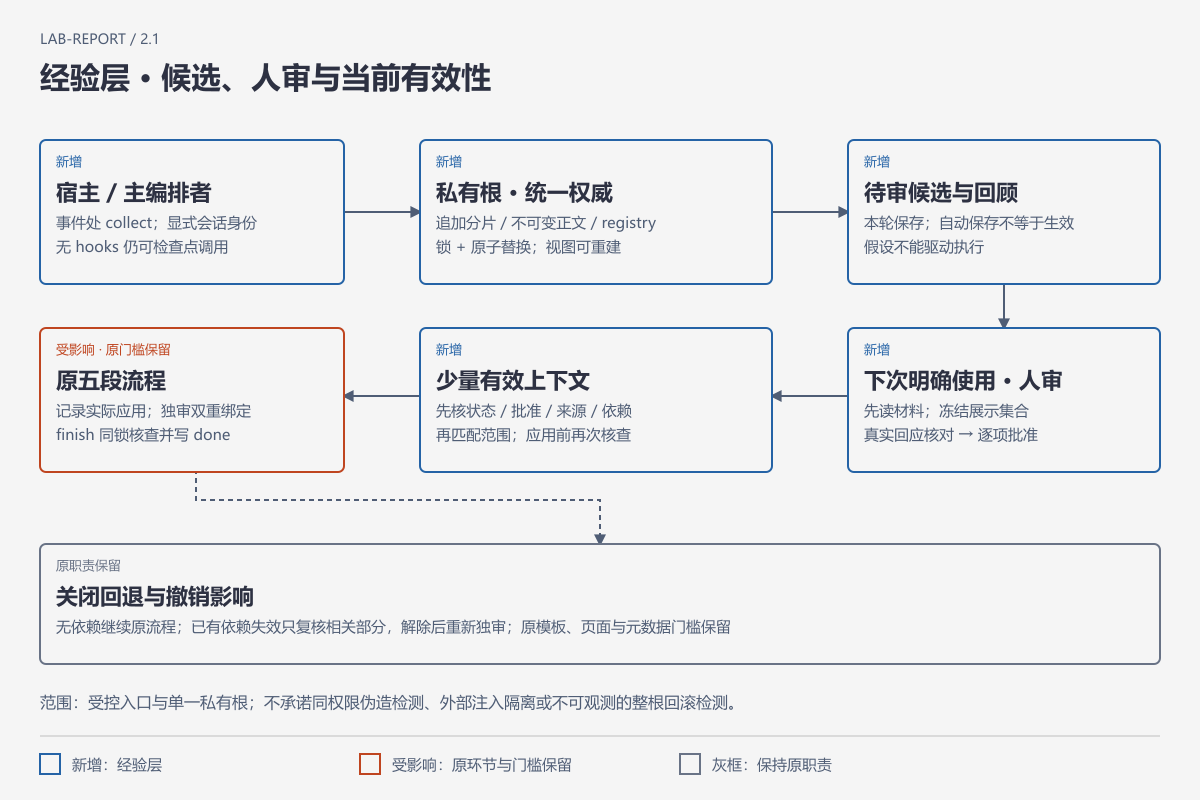
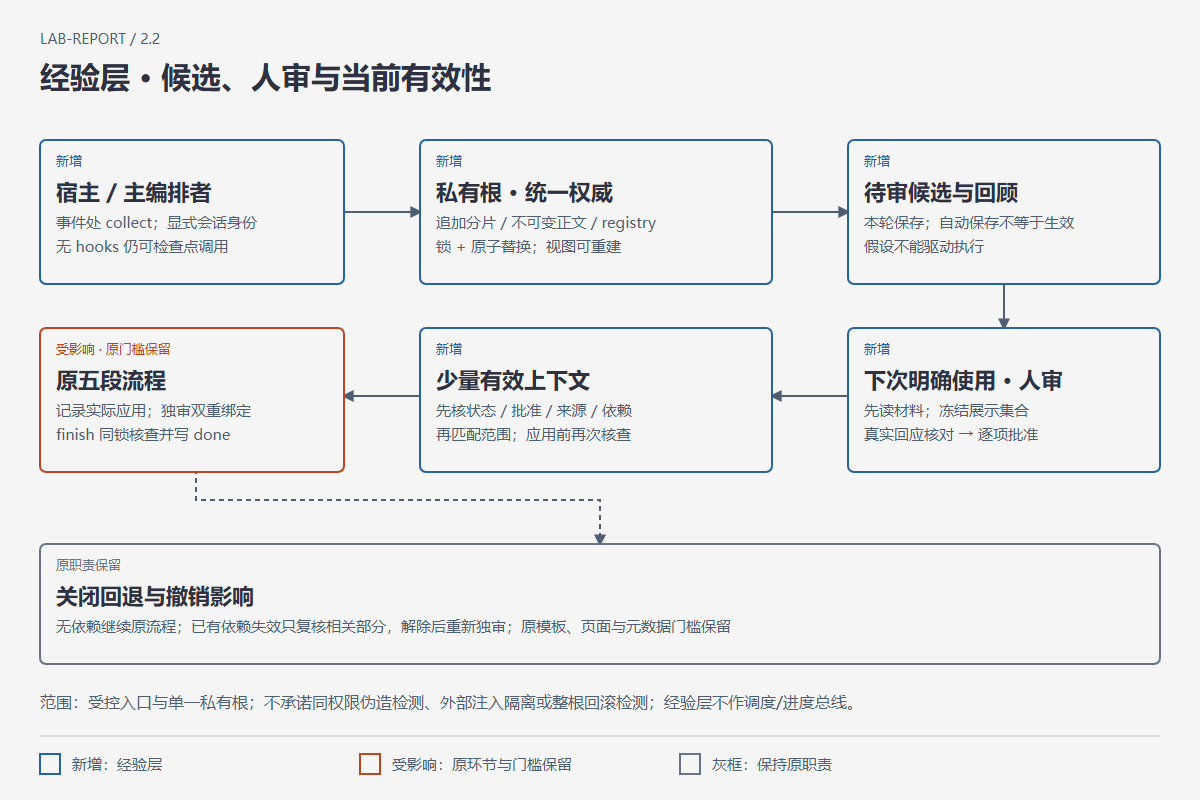
docs: update README diagrams for 2.2.0 materials map and orchestration

diff --git a/docs/images/workflow.html b/docs/images/workflow.html
@@ -1,1 +1,1 @@
-<!doctype html><html lang="zh-CN"><meta charset="utf-8"><meta name="viewport" content="width=device-width,initial-scale=1"><title>实验文档 · 五段流程与受监督经验</title><style>body{margin:0;padding:24px;background:#f5f5f5}.diagram-container{overflow-x:auto}svg{display:block;width:100%;min-width:1200px}@media print{svg{min-width:0}}</style><body><div class="diagram-container"><svg xmlns="http://www.w3.org/2000/svg" viewBox="0 0 1200 744" role="img" aria-labelledby="workflow-title workflow-desc"><title id="workflow-title">实验文档 · 五段流程与受监督经验</title><desc id="workflow-desc">橙框为受经验影响的五段流程，蓝框为新增采集与下次人审，灰框为原流程回退；验收门槛保持。</desc><defs><style>text{font-family:"Microsoft YaHei","Noto Sans SC",sans-serif}</style><marker id="arrow" viewBox="0 0 10 10" refX="8" refY="5" markerWidth="6" markerHeight="6" orient="auto-start-reverse"><path d="M0 0 L10 5 L0 10z" fill="#4f5d75"/></marker></defs><rect width="1200" height="744" fill="#f5f5f5"/><text x="40" y="44" font-size="14" fill="#4f5d75" font-weight="400">LAB-REPORT / 2.1</text><text x="40" y="88" font-size="30" fill="#2d3142" font-weight="600">实验文档 · 五段流程与受监督经验</text><path d="M240 216 H268" fill="none" stroke="#4f5d75" stroke-width="2" marker-end="url(#arrow)"/><path d="M472 216 H500" fill="none" stroke="#4f5d75" stroke-width="2" marker-end="url(#arrow)"/><path d="M704 216 H732" fill="none" stroke="#4f5d75" stroke-width="2" marker-end="url(#arrow)"/><path d="M936 216 H964" fill="none" stroke="#4f5d75" stroke-width="2" marker-end="url(#arrow)"/><path d="M600 280 V332" fill="none" stroke="#4f5d75" stroke-width="2" marker-end="url(#arrow)"/><path d="M320 384 H24 Q16 384 16 376 V124 Q16 116 24 116 H132 Q140 116 140 124 V132" fill="none" stroke="#4f5d75" stroke-width="2" marker-end="url(#arrow)" stroke-dasharray="5 4"/><rect x="40" y="132" width="200" height="148" rx="6" fill="#f5f5f5" stroke="#bf4520" stroke-width="2"/><text x="56" y="158" font-size="13" fill="#bf4520" font-weight="400">受影响 · 原门槛保留</text><text x="56" y="192" font-size="22" fill="#2d3142" font-weight="600">01 意图与确认</text><text x="56" y="220" font-size="15" fill="#4f5d75" font-weight="400">先读当前材料</text><text x="56" y="244" font-size="15" fill="#4f5d75" font-weight="400">再合并经验审核</text><rect x="272" y="132" width="200" height="148" rx="6" fill="#f5f5f5" stroke="#bf4520" stroke-width="2"/><text x="288" y="158" font-size="13" fill="#bf4520" font-weight="400">受影响 · 原门槛保留</text><text x="288" y="192" font-size="22" fill="#2d3142" font-weight="600">02 实验与取证</text><text x="288" y="220" font-size="15" fill="#4f5d75" font-weight="400">本轮真实证据</text><text x="288" y="244" font-size="15" fill="#4f5d75" font-weight="400">经验只辅助方法</text><rect x="504" y="132" width="200" height="148" rx="6" fill="#f5f5f5" stroke="#bf4520" stroke-width="2"/><text x="520" y="158" font-size="13" fill="#bf4520" font-weight="400">受影响 · 原门槛保留</text><text x="520" y="192" font-size="22" fill="#2d3142" font-weight="600">03 写作与排版</text><text x="520" y="220" font-size="15" fill="#4f5d75" font-weight="400">副本允许区域</text><text x="520" y="244" font-size="15" fill="#4f5d75" font-weight="400">保护固定区与样式</text><rect x="736" y="132" width="200" height="148" rx="6" fill="#f5f5f5" stroke="#bf4520" stroke-width="2"/><text x="752" y="158" font-size="13" fill="#bf4520" font-weight="400">受影响 · 原门槛保留</text><text x="752" y="192" font-size="22" fill="#2d3142" font-weight="600">04 独立审查</text><text x="752" y="220" font-size="15" fill="#4f5d75" font-weight="400">原材料与采用记录</text><text x="752" y="244" font-size="15" fill="#4f5d75" font-weight="400">双重版本绑定</text><rect x="968" y="132" width="200" height="148" rx="6" fill="#f5f5f5" stroke="#bf4520" stroke-width="2"/><text x="984" y="158" font-size="13" fill="#bf4520" font-weight="400">受影响 · 原门槛保留</text><text x="984" y="192" font-size="22" fill="#2d3142" font-weight="600">05 复核与交付</text><text x="984" y="220" font-size="15" fill="#4f5d75" font-weight="400">最后页面与作者回读</text><text x="984" y="244" font-size="15" fill="#4f5d75" font-weight="400">finish 当前撤销核查</text><rect x="320" y="332" width="580" height="120" rx="6" fill="#f5f5f5" stroke="#2563a6" stroke-width="2"/><text x="336" y="358" font-size="13" fill="#2563a6" font-weight="400">新增</text><text x="336" y="392" font-size="22" fill="#2d3142" font-weight="600">本轮增量采集 → 检查点保存候选</text><text x="336" y="420" font-size="15" fill="#4f5d75" font-weight="400">结尾只落盘；下次明确使用再读材料、展示、人审</text><rect x="40" y="492" width="1120" height="120" rx="6" fill="#f5f5f5" stroke="#697386" stroke-width="2"/><text x="56" y="518" font-size="13" fill="#697386" font-weight="400">原职责保留</text><text x="56" y="552" font-size="22" fill="#2d3142" font-weight="600">关闭 / 空库 / 不可用时的原流程</text><text x="56" y="580" font-size="15" fill="#4f5d75" font-weight="400">从未采用：正常继续；已经采用：保留依赖，恢复核查或局部复核后显式解除</text><text x="40" y="654" font-size="16" fill="#4f5d75" font-weight="400">统一核查位置：应用前、status / 恢复、record_review、finish；撤销不直接改写任务状态。</text><path d="M40 680 H1160" stroke="#bfc0c0"/><rect x="40" y="698" width="20" height="20" fill="none" stroke="#2563a6" stroke-width="2"/><text x="72" y="714" font-size="15" fill="#4f5d75" font-weight="400">新增：经验层</text><rect x="360" y="698" width="20" height="20" fill="none" stroke="#bf4520" stroke-width="2"/><text x="392" y="714" font-size="15" fill="#4f5d75" font-weight="400">受影响：原环节与门槛保留</text><rect x="680" y="698" width="20" height="20" fill="none" stroke="#697386" stroke-width="2"/><text x="712" y="714" font-size="15" fill="#4f5d75" font-weight="400">灰框：保持原职责</text></svg></div></body></html>
+<!doctype html><html lang="zh-CN"><meta charset="utf-8"><meta name="viewport" content="width=device-width,initial-scale=1"><title>实验文档 · 材料地图、五段流程与受监督经验</title><style>body{margin:0;padding:24px;background:#f5f5f5}.diagram-container{overflow-x:auto}svg{display:block;width:100%;min-width:1200px}@media print{svg{min-width:0}}</style><body><div class="diagram-container"><svg xmlns="http://www.w3.org/2000/svg" viewBox="0 0 1200 1000" role="img" aria-labelledby="workflow-title workflow-desc"><title id="workflow-title">实验文档 · 材料地图、五段流程与受监督经验</title><desc id="workflow-desc">顶部蓝框为 2.2 材料地图硬门，橙框为受影响的五段流程，蓝框为新增编排与经验采集，灰框为原流程回退；验收门槛保持。</desc><defs><style>text{font-family:"Microsoft YaHei","Noto Sans SC",sans-serif}</style><marker id="arrow" viewBox="0 0 10 10" refX="8" refY="5" markerWidth="6" markerHeight="6" orient="auto-start-reverse"><path d="M0 0 L10 5 L0 10z" fill="#4f5d75"/></marker></defs><rect width="1200" height="1000" fill="#f5f5f5"/><text x="40" y="44" font-size="14" fill="#4f5d75" font-weight="400">LAB-REPORT / 2.2</text><text x="40" y="88" font-size="30" fill="#2d3142" font-weight="600">实验文档 · 材料地图、五段流程与受监督经验</text><path d="M140 236 V268" fill="none" stroke="#4f5d75" stroke-width="2" marker-end="url(#arrow)"/><path d="M240 342 H268" fill="none" stroke="#4f5d75" stroke-width="2" marker-end="url(#arrow)"/><path d="M472 342 H500" fill="none" stroke="#4f5d75" stroke-width="2" marker-end="url(#arrow)"/><path d="M704 342 H732" fill="none" stroke="#4f5d75" stroke-width="2" marker-end="url(#arrow)"/><path d="M936 342 H964" fill="none" stroke="#4f5d75" stroke-width="2" marker-end="url(#arrow)"/><path d="M600 416 V452" fill="none" stroke="#4f5d75" stroke-width="2" marker-end="url(#arrow)"/><path d="M600 572 V608" fill="none" stroke="#4f5d75" stroke-width="2" marker-end="url(#arrow)" stroke-dasharray="5 4"/><path d="M600 728 V764" fill="none" stroke="#4f5d75" stroke-width="2" marker-end="url(#arrow)" stroke-dasharray="5 4"/><rect x="40" y="116" width="1120" height="120" rx="6" fill="#f5f5f5" stroke="#2563a6" stroke-width="2"/><text x="56" y="142" font-size="13" fill="#2563a6" font-weight="400">新增 · 2.2 硬门</text><text x="56" y="176" font-size="22" fill="#2d3142" font-weight="600">00 材料地图 · 意图前的硬门</text><text x="56" y="204" font-size="15" fill="#4f5d75" font-weight="400">通读全部材料 → 索引式 MATERIALS_MAP；每条硬要求引用 map_id</text><text x="56" y="228" font-size="15" fill="#4f5d75" font-weight="400">关键材料分 subagent / 新 session 精读；地图只记定位与短引文</text><rect x="40" y="268" width="200" height="148" rx="6" fill="#f5f5f5" stroke="#bf4520" stroke-width="2"/><text x="56" y="294" font-size="13" fill="#bf4520" font-weight="400">受影响 · 原门槛保留</text><text x="56" y="328" font-size="22" fill="#2d3142" font-weight="600">01 意图与确认</text><text x="56" y="356" font-size="15" fill="#4f5d75" font-weight="400">地图条目 → 意图清单</text><text x="56" y="380" font-size="15" fill="#4f5d75" font-weight="400">合并经验审核后确认</text><rect x="272" y="268" width="200" height="148" rx="6" fill="#f5f5f5" stroke="#bf4520" stroke-width="2"/><text x="288" y="294" font-size="13" fill="#bf4520" font-weight="400">受影响 · 原门槛保留</text><text x="288" y="328" font-size="22" fill="#2d3142" font-weight="600">02 实验与取证</text><text x="288" y="356" font-size="15" fill="#4f5d75" font-weight="400">冻结 Step Card</text><text x="288" y="380" font-size="15" fill="#4f5d75" font-weight="400">逐步取证与绑定</text><rect x="504" y="268" width="200" height="148" rx="6" fill="#f5f5f5" stroke="#bf4520" stroke-width="2"/><text x="520" y="294" font-size="13" fill="#bf4520" font-weight="400">受影响 · 原门槛保留</text><text x="520" y="328" font-size="22" fill="#2d3142" font-weight="600">03 写作与排版</text><text x="520" y="356" font-size="15" fill="#4f5d75" font-weight="400">副本允许区域</text><text x="520" y="380" font-size="15" fill="#4f5d75" font-weight="400">保护固定区与样式</text><rect x="736" y="268" width="200" height="148" rx="6" fill="#f5f5f5" stroke="#bf4520" stroke-width="2"/><text x="752" y="294" font-size="13" fill="#bf4520" font-weight="400">受影响 · 原门槛保留</text><text x="752" y="328" font-size="22" fill="#2d3142" font-weight="600">04 独立审查</text><text x="752" y="356" font-size="15" fill="#4f5d75" font-weight="400">白名单投喂与 REVIEW 表</text><text x="752" y="380" font-size="15" fill="#4f5d75" font-weight="400">双重版本绑定</text><rect x="968" y="268" width="200" height="148" rx="6" fill="#f5f5f5" stroke="#bf4520" stroke-width="2"/><text x="984" y="294" font-size="13" fill="#bf4520" font-weight="400">受影响 · 原门槛保留</text><text x="984" y="328" font-size="22" fill="#2d3142" font-weight="600">05 复核与交付</text><text x="984" y="356" font-size="15" fill="#4f5d75" font-weight="400">最后页面与作者回读</text><text x="984" y="380" font-size="15" fill="#4f5d75" font-weight="400">finish 当前撤销核查</text><rect x="40" y="452" width="1120" height="120" rx="6" fill="#f5f5f5" stroke="#2563a6" stroke-width="2"/><text x="56" y="478" font-size="13" fill="#2563a6" font-weight="400">新增</text><text x="56" y="512" font-size="22" fill="#2d3142" font-weight="600">分段 session / subagent 编排</text><text x="56" y="540" font-size="15" fill="#4f5d75" font-weight="400">材料 → 意图 → 执行 → 写作 → 独审 → 修订；只共享短交接包</text><text x="56" y="564" font-size="15" fill="#4f5d75" font-weight="400">一个编排者写 state.json；共享 VM 同时只有一个执行者；只切上下文，不切权限</text><rect x="310" y="608" width="580" height="120" rx="6" fill="#f5f5f5" stroke="#2563a6" stroke-width="2"/><text x="326" y="634" font-size="13" fill="#2563a6" font-weight="400">新增</text><text x="326" y="668" font-size="22" fill="#2d3142" font-weight="600">本轮增量采集 → 检查点保存候选</text><text x="326" y="696" font-size="15" fill="#4f5d75" font-weight="400">结尾只落盘；下次明确使用再读材料、展示、人审</text><rect x="40" y="764" width="1120" height="120" rx="6" fill="#f5f5f5" stroke="#697386" stroke-width="2"/><text x="56" y="790" font-size="13" fill="#697386" font-weight="400">原职责保留</text><text x="56" y="824" font-size="22" fill="#2d3142" font-weight="600">关闭 / 空库 / 不可用时的原流程</text><text x="56" y="852" font-size="15" fill="#4f5d75" font-weight="400">从未采用：正常继续；已经采用：保留依赖，恢复核查或局部复核后显式解除</text><text x="40" y="912" font-size="16" fill="#4f5d75" font-weight="400">统一核查位置：应用前、status / 恢复、record_review、finish；撤销不直接改写任务状态。</text><path d="M40 936 H1160" stroke="#bfc0c0"/><rect x="40" y="954" width="20" height="20" fill="none" stroke="#2563a6" stroke-width="2"/><text x="72" y="970" font-size="15" fill="#4f5d75" font-weight="400">新增：地图 / 编排 / 经验层</text><rect x="360" y="954" width="20" height="20" fill="none" stroke="#bf4520" stroke-width="2"/><text x="392" y="970" font-size="15" fill="#4f5d75" font-weight="400">受影响：原环节与门槛保留</text><rect x="680" y="954" width="20" height="20" fill="none" stroke="#697386" stroke-width="2"/><text x="712" y="970" font-size="15" fill="#4f5d75" font-weight="400">灰框：保持原职责</text></svg></div></body></html>

diff --git a/docs/images/memory-architecture.html b/docs/images/memory-architecture.html
@@ -1,1 +1,1 @@
-<!doctype html><html lang="zh-CN"><meta charset="utf-8"><meta name="viewport" content="width=device-width,initial-scale=1"><title>经验层 · 候选、人审与当前有效性</title><style>body{margin:0;padding:24px;background:#f5f5f5}.diagram-container{overflow-x:auto}svg{display:block;width:100%;min-width:1200px}@media print{svg{min-width:0}}</style><body><div class="diagram-container"><svg xmlns="http://www.w3.org/2000/svg" viewBox="0 0 1200 800" role="img" aria-labelledby="memory-architecture-title memory-architecture-desc"><title id="memory-architecture-title">经验层 · 候选、人审与当前有效性</title><desc id="memory-architecture-desc">从宿主采集到私有候选，下次先读材料再人审，经统一筛选进入原流程；关闭或撤销保留真实依赖。</desc><defs><style>text{font-family:"Microsoft YaHei","Noto Sans SC",sans-serif}</style><marker id="arrow" viewBox="0 0 10 10" refX="8" refY="5" markerWidth="6" markerHeight="6" orient="auto-start-reverse"><path d="M0 0 L10 5 L0 10z" fill="#4f5d75"/></marker></defs><rect width="1200" height="800" fill="#f5f5f5"/><text x="40" y="44" font-size="14" fill="#4f5d75" font-weight="400">LAB-REPORT / 2.1</text><text x="40" y="88" font-size="30" fill="#2d3142" font-weight="600">经验层 · 候选、人审与当前有效性</text><path d="M344 212 H420" fill="none" stroke="#4f5d75" stroke-width="2" marker-end="url(#arrow)"/><path d="M772 212 H848" fill="none" stroke="#4f5d75" stroke-width="2" marker-end="url(#arrow)"/><path d="M1004 284 V328" fill="none" stroke="#4f5d75" stroke-width="2" marker-end="url(#arrow)"/><path d="M848 396 H772" fill="none" stroke="#4f5d75" stroke-width="2" marker-end="url(#arrow)"/><path d="M420 396 H344" fill="none" stroke="#4f5d75" stroke-width="2" marker-end="url(#arrow)"/><path d="M196 460 V500 H600 V544" fill="none" stroke="#4f5d75" stroke-width="2" marker-end="url(#arrow)" stroke-dasharray="5 4"/><rect x="40" y="140" width="304" height="144" rx="6" fill="#f5f5f5" stroke="#2563a6" stroke-width="2"/><text x="56" y="166" font-size="13" fill="#2563a6" font-weight="400">新增</text><text x="56" y="200" font-size="22" fill="#2d3142" font-weight="600">宿主 / 主编排者</text><text x="56" y="228" font-size="15" fill="#4f5d75" font-weight="400">事件处 collect；显式会话身份</text><text x="56" y="252" font-size="15" fill="#4f5d75" font-weight="400">无 hooks 仍可检查点调用</text><rect x="420" y="140" width="352" height="144" rx="6" fill="#f5f5f5" stroke="#2563a6" stroke-width="2"/><text x="436" y="166" font-size="13" fill="#2563a6" font-weight="400">新增</text><text x="436" y="200" font-size="22" fill="#2d3142" font-weight="600">私有根 · 统一权威</text><text x="436" y="228" font-size="15" fill="#4f5d75" font-weight="400">追加分片 / 不可变正文 / registry</text><text x="436" y="252" font-size="15" fill="#4f5d75" font-weight="400">锁 + 原子替换；视图可重建</text><rect x="848" y="140" width="312" height="144" rx="6" fill="#f5f5f5" stroke="#2563a6" stroke-width="2"/><text x="864" y="166" font-size="13" fill="#2563a6" font-weight="400">新增</text><text x="864" y="200" font-size="22" fill="#2d3142" font-weight="600">待审候选与回顾</text><text x="864" y="228" font-size="15" fill="#4f5d75" font-weight="400">本轮保存；自动保存不等于生效</text><text x="864" y="252" font-size="15" fill="#4f5d75" font-weight="400">假设不能驱动执行</text><rect x="848" y="328" width="312" height="144" rx="6" fill="#f5f5f5" stroke="#2563a6" stroke-width="2"/><text x="864" y="354" font-size="13" fill="#2563a6" font-weight="400">新增</text><text x="864" y="388" font-size="22" fill="#2d3142" font-weight="600">下次明确使用 · 人审</text><text x="864" y="416" font-size="15" fill="#4f5d75" font-weight="400">先读材料；冻结展示集合</text><text x="864" y="440" font-size="15" fill="#4f5d75" font-weight="400">真实回应核对 → 逐项批准</text><rect x="420" y="328" width="352" height="144" rx="6" fill="#f5f5f5" stroke="#2563a6" stroke-width="2"/><text x="436" y="354" font-size="13" fill="#2563a6" font-weight="400">新增</text><text x="436" y="388" font-size="22" fill="#2d3142" font-weight="600">少量有效上下文</text><text x="436" y="416" font-size="15" fill="#4f5d75" font-weight="400">先核状态 / 批准 / 来源 / 依赖</text><text x="436" y="440" font-size="15" fill="#4f5d75" font-weight="400">再匹配范围；应用前再次核查</text><rect x="40" y="328" width="304" height="144" rx="6" fill="#f5f5f5" stroke="#bf4520" stroke-width="2"/><text x="56" y="354" font-size="13" fill="#bf4520" font-weight="400">受影响 · 原门槛保留</text><text x="56" y="388" font-size="22" fill="#2d3142" font-weight="600">原五段流程</text><text x="56" y="416" font-size="15" fill="#4f5d75" font-weight="400">记录实际应用；独审双重绑定</text><text x="56" y="440" font-size="15" fill="#4f5d75" font-weight="400">finish 同锁核查并写 done</text><rect x="40" y="544" width="1120" height="120" rx="6" fill="#f5f5f5" stroke="#697386" stroke-width="2"/><text x="56" y="570" font-size="13" fill="#697386" font-weight="400">原职责保留</text><text x="56" y="604" font-size="22" fill="#2d3142" font-weight="600">关闭回退与撤销影响</text><text x="56" y="632" font-size="15" fill="#4f5d75" font-weight="400">无依赖继续原流程；已有依赖失效只复核相关部分，解除后重新独审；原模板、页面与元数据门槛保留</text><text x="40" y="708" font-size="16" fill="#4f5d75" font-weight="400">范围：受控入口与单一私有根；不承诺同权限伪造检测、外部注入隔离或不可观测的整根回滚检测。</text><path d="M40 736 H1160" stroke="#bfc0c0"/><rect x="40" y="754" width="20" height="20" fill="none" stroke="#2563a6" stroke-width="2"/><text x="72" y="770" font-size="15" fill="#4f5d75" font-weight="400">新增：经验层</text><rect x="360" y="754" width="20" height="20" fill="none" stroke="#bf4520" stroke-width="2"/><text x="392" y="770" font-size="15" fill="#4f5d75" font-weight="400">受影响：原环节与门槛保留</text><rect x="680" y="754" width="20" height="20" fill="none" stroke="#697386" stroke-width="2"/><text x="712" y="770" font-size="15" fill="#4f5d75" font-weight="400">灰框：保持原职责</text></svg></div></body></html>
+<!doctype html><html lang="zh-CN"><meta charset="utf-8"><meta name="viewport" content="width=device-width,initial-scale=1"><title>经验层 · 候选、人审与当前有效性</title><style>body{margin:0;padding:24px;background:#f5f5f5}.diagram-container{overflow-x:auto}svg{display:block;width:100%;min-width:1200px}@media print{svg{min-width:0}}</style><body><div class="diagram-container"><svg xmlns="http://www.w3.org/2000/svg" viewBox="0 0 1200 800" role="img" aria-labelledby="memory-architecture-title memory-architecture-desc"><title id="memory-architecture-title">经验层 · 候选、人审与当前有效性</title><desc id="memory-architecture-desc">从宿主采集到私有候选，下次先读材料再人审，经统一筛选进入原流程；关闭或撤销保留真实依赖。</desc><defs><style>text{font-family:"Microsoft YaHei","Noto Sans SC",sans-serif}</style><marker id="arrow" viewBox="0 0 10 10" refX="8" refY="5" markerWidth="6" markerHeight="6" orient="auto-start-reverse"><path d="M0 0 L10 5 L0 10z" fill="#4f5d75"/></marker></defs><rect width="1200" height="800" fill="#f5f5f5"/><text x="40" y="44" font-size="14" fill="#4f5d75" font-weight="400">LAB-REPORT / 2.2</text><text x="40" y="88" font-size="30" fill="#2d3142" font-weight="600">经验层 · 候选、人审与当前有效性</text><path d="M344 212 H420" fill="none" stroke="#4f5d75" stroke-width="2" marker-end="url(#arrow)"/><path d="M772 212 H848" fill="none" stroke="#4f5d75" stroke-width="2" marker-end="url(#arrow)"/><path d="M1004 284 V328" fill="none" stroke="#4f5d75" stroke-width="2" marker-end="url(#arrow)"/><path d="M848 396 H772" fill="none" stroke="#4f5d75" stroke-width="2" marker-end="url(#arrow)"/><path d="M420 396 H344" fill="none" stroke="#4f5d75" stroke-width="2" marker-end="url(#arrow)"/><path d="M196 460 V500 H600 V544" fill="none" stroke="#4f5d75" stroke-width="2" marker-end="url(#arrow)" stroke-dasharray="5 4"/><rect x="40" y="140" width="304" height="144" rx="6" fill="#f5f5f5" stroke="#2563a6" stroke-width="2"/><text x="56" y="166" font-size="13" fill="#2563a6" font-weight="400">新增</text><text x="56" y="200" font-size="22" fill="#2d3142" font-weight="600">宿主 / 主编排者</text><text x="56" y="228" font-size="15" fill="#4f5d75" font-weight="400">事件处 collect；显式会话身份</text><text x="56" y="252" font-size="15" fill="#4f5d75" font-weight="400">无 hooks 仍可检查点调用</text><rect x="420" y="140" width="352" height="144" rx="6" fill="#f5f5f5" stroke="#2563a6" stroke-width="2"/><text x="436" y="166" font-size="13" fill="#2563a6" font-weight="400">新增</text><text x="436" y="200" font-size="22" fill="#2d3142" font-weight="600">私有根 · 统一权威</text><text x="436" y="228" font-size="15" fill="#4f5d75" font-weight="400">追加分片 / 不可变正文 / registry</text><text x="436" y="252" font-size="15" fill="#4f5d75" font-weight="400">锁 + 原子替换；视图可重建</text><rect x="848" y="140" width="312" height="144" rx="6" fill="#f5f5f5" stroke="#2563a6" stroke-width="2"/><text x="864" y="166" font-size="13" fill="#2563a6" font-weight="400">新增</text><text x="864" y="200" font-size="22" fill="#2d3142" font-weight="600">待审候选与回顾</text><text x="864" y="228" font-size="15" fill="#4f5d75" font-weight="400">本轮保存；自动保存不等于生效</text><text x="864" y="252" font-size="15" fill="#4f5d75" font-weight="400">假设不能驱动执行</text><rect x="848" y="328" width="312" height="144" rx="6" fill="#f5f5f5" stroke="#2563a6" stroke-width="2"/><text x="864" y="354" font-size="13" fill="#2563a6" font-weight="400">新增</text><text x="864" y="388" font-size="22" fill="#2d3142" font-weight="600">下次明确使用 · 人审</text><text x="864" y="416" font-size="15" fill="#4f5d75" font-weight="400">先读材料；冻结展示集合</text><text x="864" y="440" font-size="15" fill="#4f5d75" font-weight="400">真实回应核对 → 逐项批准</text><rect x="420" y="328" width="352" height="144" rx="6" fill="#f5f5f5" stroke="#2563a6" stroke-width="2"/><text x="436" y="354" font-size="13" fill="#2563a6" font-weight="400">新增</text><text x="436" y="388" font-size="22" fill="#2d3142" font-weight="600">少量有效上下文</text><text x="436" y="416" font-size="15" fill="#4f5d75" font-weight="400">先核状态 / 批准 / 来源 / 依赖</text><text x="436" y="440" font-size="15" fill="#4f5d75" font-weight="400">再匹配范围；应用前再次核查</text><rect x="40" y="328" width="304" height="144" rx="6" fill="#f5f5f5" stroke="#bf4520" stroke-width="2"/><text x="56" y="354" font-size="13" fill="#bf4520" font-weight="400">受影响 · 原门槛保留</text><text x="56" y="388" font-size="22" fill="#2d3142" font-weight="600">原五段流程</text><text x="56" y="416" font-size="15" fill="#4f5d75" font-weight="400">记录实际应用；独审双重绑定</text><text x="56" y="440" font-size="15" fill="#4f5d75" font-weight="400">finish 同锁核查并写 done</text><rect x="40" y="544" width="1120" height="120" rx="6" fill="#f5f5f5" stroke="#697386" stroke-width="2"/><text x="56" y="570" font-size="13" fill="#697386" font-weight="400">原职责保留</text><text x="56" y="604" font-size="22" fill="#2d3142" font-weight="600">关闭回退与撤销影响</text><text x="56" y="632" font-size="15" fill="#4f5d75" font-weight="400">无依赖继续原流程；已有依赖失效只复核相关部分，解除后重新独审；原模板、页面与元数据门槛保留</text><text x="40" y="708" font-size="16" fill="#4f5d75" font-weight="400">范围：受控入口与单一私有根；不承诺同权限伪造检测、外部注入隔离或整根回滚检测；经验层不作调度/进度总线。</text><path d="M40 736 H1160" stroke="#bfc0c0"/><rect x="40" y="754" width="20" height="20" fill="none" stroke="#2563a6" stroke-width="2"/><text x="72" y="770" font-size="15" fill="#4f5d75" font-weight="400">新增：经验层</text><rect x="360" y="754" width="20" height="20" fill="none" stroke="#bf4520" stroke-width="2"/><text x="392" y="770" font-size="15" fill="#4f5d75" font-weight="400">受影响：原环节与门槛保留</text><rect x="680" y="754" width="20" height="20" fill="none" stroke="#697386" stroke-width="2"/><text x="712" y="770" font-size="15" fill="#4f5d75" font-weight="400">灰框：保持原职责</text></svg></div></body></html>

diff --git a/scripts/build_diagrams.py b/scripts/build_diagrams.py
@@ -12,9 +12,9 @@ def text(x, y, label, size=16, color=INK, weight=400):
     return f'<text x="{x}" y="{y}" font-size="{size}" fill="{color}" font-weight="{weight}">{escape(label)}</text>'
 
 
-def box(x, y, width, height, label, lines, kind):
+def box(x, y, width, height, label, lines, kind, tag=None):
     color = COLORS[kind]
-    tag = {'new': '新增', 'affected': '受影响 · 原门槛保留', 'original': '原职责保留'}[kind]
+    tag = tag or {'new': '新增', 'affected': '受影响 · 原门槛保留', 'original': '原职责保留'}[kind]
     return (f'<rect x="{x}" y="{y}" width="{width}" height="{height}" rx="6" fill="{PAPER}" stroke="{color}" stroke-width="2"/>'
             + text(x + 16, y + 26, tag, 13, color)
             + text(x + 16, y + 60, label, 22, INK, 600)
@@ -25,16 +25,16 @@ def arrow(path, dashed=False):
     return f'<path d="{path}" fill="none" stroke="{SOFT}" stroke-width="2" marker-end="url(#arrow)"' + (' stroke-dasharray="5 4"' if dashed else '') + '/>'
 
 
-def save(name, title, desc, height, content):
+def save(name, title, desc, height, content, legend_new='新增：经验层'):
     legend = ''.join(f'<rect x="{40 + i * 320}" y="{height - 46}" width="20" height="20" fill="none" stroke="{color}" stroke-width="2"/>'
                      + text(72 + i * 320, height - 30, label, 15, SOFT)
-                     for i, (color, label) in enumerate([(COLORS['new'], '新增：经验层'), (COLORS['affected'], '受影响：原环节与门槛保留'), (COLORS['original'], '灰框：保持原职责')]))
+                     for i, (color, label) in enumerate([(COLORS['new'], legend_new), (COLORS['affected'], '受影响：原环节与门槛保留'), (COLORS['original'], '灰框：保持原职责')]))
     svg = (f'<svg xmlns="http://www.w3.org/2000/svg" viewBox="0 0 1200 {height}" role="img" aria-labelledby="{name}-title {name}-desc">'
            f'<title id="{name}-title">{escape(title)}</title><desc id="{name}-desc">{escape(desc)}</desc>'
            '<defs><style>text{font-family:"Microsoft YaHei","Noto Sans SC",sans-serif}</style>'
            f'<marker id="arrow" viewBox="0 0 10 10" refX="8" refY="5" markerWidth="6" markerHeight="6" orient="auto-start-reverse"><path d="M0 0 L10 5 L0 10z" fill="{SOFT}"/></marker></defs>'
            f'<rect width="1200" height="{height}" fill="{PAPER}"/>'
-           + text(40, 44, 'LAB-REPORT / 2.1', 14, SOFT) + text(40, 88, title, 30, INK, 600)
+           + text(40, 44, 'LAB-REPORT / 2.2', 14, SOFT) + text(40, 88, title, 30, INK, 600)
            + content + f'<path d="M40 {height - 64} H1160" stroke="#bfc0c0"/>' + legend + '</svg>')
     ROOT.mkdir(parents=True, exist_ok=True)
     (ROOT / (name + '.svg')).write_text(svg + '\n', encoding='utf-8')
@@ -46,18 +46,22 @@ def save(name, title, desc, height, content):
 
 
 def build():
-    flow = ''.join(arrow(f'M{x + 200} 216 H{x + 228}') for x in (40, 272, 504, 736))
-    flow += arrow('M600 280 V332')
-    flow += arrow('M320 384 H24 Q16 384 16 376 V124 Q16 116 24 116 H132 Q140 116 140 124 V132', True)
-    stages = [('01 意图与确认', ['先读当前材料', '再合并经验审核']), ('02 实验与取证', ['本轮真实证据', '经验只辅助方法']),
-              ('03 写作与排版', ['副本允许区域', '保护固定区与样式']), ('04 独立审查', ['原材料与采用记录', '双重版本绑定']),
+    stages = [('01 意图与确认', ['地图条目 → 意图清单', '合并经验审核后确认']), ('02 实验与取证', ['冻结 Step Card', '逐步取证与绑定']),
+              ('03 写作与排版', ['副本允许区域', '保护固定区与样式']), ('04 独立审查', ['白名单投喂与 REVIEW 表', '双重版本绑定']),
               ('05 复核与交付', ['最后页面与作者回读', 'finish 当前撤销核查'])]
+    flow = arrow('M140 236 V268')
+    flow += ''.join(arrow(f'M{x + 200} 342 H{x + 228}') for x in (40, 272, 504, 736))
+    flow += arrow('M600 416 V452')
+    flow += arrow('M600 572 V608', True)
+    flow += arrow('M600 728 V764', True)
+    flow += box(40, 116, 1120, 120, '00 材料地图 · 意图前的硬门', ['通读全部材料 → 索引式 MATERIALS_MAP；每条硬要求引用 map_id', '关键材料分 subagent / 新 session 精读；地图只记定位与短引文'], 'new', '新增 · 2.2 硬门')
     for i, (label, lines) in enumerate(stages):
-        flow += box(40 + i * 232, 132, 200, 148, label, lines, 'affected')
-    flow += box(320, 332, 580, 120, '本轮增量采集 → 检查点保存候选', ['结尾只落盘；下次明确使用再读材料、展示、人审'], 'new')
-    flow += box(40, 492, 1120, 120, '关闭 / 空库 / 不可用时的原流程', ['从未采用：正常继续；已经采用：保留依赖，恢复核查或局部复核后显式解除'], 'original')
-    flow += text(40, 654, '统一核查位置：应用前、status / 恢复、record_review、finish；撤销不直接改写任务状态。', 16, SOFT)
-    save('workflow', '实验文档 · 五段流程与受监督经验', '橙框为受经验影响的五段流程，蓝框为新增采集与下次人审，灰框为原流程回退；验收门槛保持。', 744, flow)
+        flow += box(40 + i * 232, 268, 200, 148, label, lines, 'affected')
+    flow += box(40, 452, 1120, 120, '分段 session / subagent 编排', ['材料 → 意图 → 执行 → 写作 → 独审 → 修订；只共享短交接包', '一个编排者写 state.json；共享 VM 同时只有一个执行者；只切上下文，不切权限'], 'new')
+    flow += box(310, 608, 580, 120, '本轮增量采集 → 检查点保存候选', ['结尾只落盘；下次明确使用再读材料、展示、人审'], 'new')
+    flow += box(40, 764, 1120, 120, '关闭 / 空库 / 不可用时的原流程', ['从未采用：正常继续；已经采用：保留依赖，恢复核查或局部复核后显式解除'], 'original')
+    flow += text(40, 912, '统一核查位置：应用前、status / 恢复、record_review、finish；撤销不直接改写任务状态。', 16, SOFT)
+    save('workflow', '实验文档 · 材料地图、五段流程与受监督经验', '顶部蓝框为 2.2 材料地图硬门，橙框为受影响的五段流程，蓝框为新增编排与经验采集，灰框为原流程回退；验收门槛保持。', 1000, flow, '新增：地图 / 编排 / 经验层')
 
     architecture = arrow('M344 212 H420') + arrow('M772 212 H848')
     architecture += arrow('M1004 284 V328') + arrow('M848 396 H772') + arrow('M420 396 H344')
@@ -69,7 +73,7 @@ def build():
     architecture += box(420, 328, 352, 144, '少量有效上下文', ['先核状态 / 批准 / 来源 / 依赖', '再匹配范围；应用前再次核查'], 'new')
     architecture += box(40, 328, 304, 144, '原五段流程', ['记录实际应用；独审双重绑定', 'finish 同锁核查并写 done'], 'affected')
     architecture += box(40, 544, 1120, 120, '关闭回退与撤销影响', ['无依赖继续原流程；已有依赖失效只复核相关部分，解除后重新独审；原模板、页面与元数据门槛保留'], 'original')
-    architecture += text(40, 708, '范围：受控入口与单一私有根；不承诺同权限伪造检测、外部注入隔离或不可观测的整根回滚检测。', 16, SOFT)
+    architecture += text(40, 708, '范围：受控入口与单一私有根；不承诺同权限伪造检测、外部注入隔离或整根回滚检测；经验层不作调度/进度总线。', 16, SOFT)
     save('memory-architecture', '经验层 · 候选、人审与当前有效性', '从宿主采集到私有候选，下次先读材料再人审，经统一筛选进入原流程；关闭或撤销保留真实依赖。', 800, architecture)
 
 

diff --git a/README.md b/README.md
@@ -6,7 +6,7 @@
 
 [开始使用](#开始使用) · [经验增强](#3-可选开启受监督经验) · [写作效果](#写作效果示意) · [环境依赖](references/portability.md) · [验证边界](docs/validation.md)
 
-![从课程材料到真实证据与可编辑报告的工作流程](docs/images/workflow.svg)
+![从材料地图到真实证据与可编辑报告的工作流程](docs/images/workflow.svg)
 
 ## 你提供什么，会得到什么
 
@@ -44,7 +44,7 @@ git clone https://github.com/2kilo3/lab-report.git
 
 ```text
 请使用 lab-report。读取 course-input/ 中的任务书、评分表和 Word 模板，
-并查看 experiment/ 中已有代码与截图。先说明要求覆盖和证据缺口。
+并查看 experiment/ 中已有代码与截图。先给出材料地图并说明要求覆盖和证据缺口。
 原模板不要修改，输出到 report-output/。
 ```
 
@@ -55,9 +55,9 @@ git clone https://github.com/2kilo3/lab-report.git
 本次只列问题，不修改文档，也不要重跑实验。
 ```
 
-完整制作先确认一份意图清单，然后自动补齐必要工作、写作、独立审查与修订复核，不强制小样二次审批；已确认且未变化的内容不反复询问。范例主要软参考整体样式，其次参考写法，不照搬事实。没有真实环境或证据时，先处理独立部分并列明缺口，不生成假截图。
-
 完整制作先读全部材料并产出索引式材料地图（`MATERIALS_MAP`），再写意图；意图每条硬要求引用 `map_id`。关键材料可交独立 subagent 或新 session 精读，执行、写作、独审和修订按段使用相对干净的上下文，只共享短交接包。地图是索引，不复制全文；共享 VM 仍同时只有一个执行者。详见 [材料地图](references/materials-map.md) 与 [多会话与子代理编排](references/orchestration.md)。
+
+再确认一份意图清单，随后自动补齐必要工作、写作、独立审查与修订复核，不强制小样二次审批；已确认且未变化的内容不反复询问。范例主要软参考整体样式，其次参考写法，不照搬事实。没有真实环境或证据时，先处理独立部分并列明缺口，不生成假截图。
 
 最小状态辅助器记录确认、当前成果版本、独审结果与局部回退，恢复时检查文件变化。它不替用户批准、不执行实验，也不能证明独审质量或防止同权限篡改。用法见 [状态与恢复](references/state-machine.md)。
 
@@ -65,7 +65,7 @@ git clone https://github.com/2kilo3/lab-report.git
 
 ### 3. 可选开启受监督经验
 
-2.1.0 增加一套可关闭的经验层：本轮在纠正、决策、失败修复和阶段检查点增量保存回顾与待审候选，收尾只落盘；下一次你明确使用 `lab-report` 时，先读当前材料，再把相关经验审核与本轮意图确认放在一次交互中。自动保存不等于自动生效，未变化的长期批准不重复询问。经验辅助取证、写作与允许区域的排版方法，原模板保护、真实证据、独审、最终页面和作者元数据回读继续执行。
+2.1.0 增加一套可关闭的经验层：本轮在纠正、决策、失败修复和阶段检查点增量保存回顾与待审候选，收尾只落盘；下一次你明确使用 `lab-report` 时，先读当前材料并产出地图，再把相关经验审核与本轮意图确认放在一次交互中。自动保存不等于自动生效，未变化的长期批准不重复询问。经验辅助取证、写作与允许区域的排版方法，原模板保护、真实证据、独审、最终页面和作者元数据回读继续执行。
 
 ![经验层的候选、人审与当前有效性架构](docs/images/memory-architecture.svg)
 
@@ -133,6 +133,7 @@ scripts/host_adapter.py     显式检查点及离线来源薄适配
 scripts/build_diagrams.py   可维护 SVG/HTML 图示源生成器
 tests/test_*.py             合成状态、经验及集成单元测试
 tests/replay_memory.py      可执行合成完整链路回放
+tests/document_smoke.py     可选合成 DOCX 冒烟（需 python-docx / LibreOffice）
 tests/scenarios.md          待执行的行为场景
 docs/                       来源、验证、图示及 About 元数据
 ```

diff --git a/docs/validation.md b/docs/validation.md
@@ -62,6 +62,7 @@
 - 同步收紧 `requirements-note.md`、`step-cards.md`、`execution.md`、`review-checklist.md`、`document-output.md`、`human-ops.md`、`forbidden-shortcuts.md`（新增 B14–B19）：具名工具不可用 CLI 冒充、拓扑/对象清单绑定、交互提示符与批量禁令、标注默认关闭、禁止标题换黑体/放大、跨轮 MAC/标注失效、宿主机转发说明。
 - `workflow_state.py` 的 `freeze_plan` 新增可选 `tool` 与 `objects` 字段并随计划保存；缺省时证据绑定摘要与旧卡保持一致。新增 2 项合成单测覆盖保留与非法值拒绝。
 - 运行 `python -B -m pytest -q`：68 项通过（基线 66 + 新增 2）。静态检查：Python 编译、`git diff --check`、Markdown 本地链接检查通过。
+- 图示同步到 2.2.0：workflow 增加材料地图硬门与分段 session 编排，memory-architecture 更新版本横幅并补充“经验层不作调度/进度总线”；同一 `build_diagrams.py` 生成 SVG/HTML，PNG 从 SVG 渲染，尺寸 1200×1000 与 1200×800；两张图实际查看无缺字、遮挡或溢出，`diagram-design` 的 `self_check.py` 通过。
 - `tests/scenarios.md` 新增 57–63 为待执行行为设计（NOT EXECUTED），覆盖缺地图、长会话投喂摘要、Postman≠curl、拓扑冒充、提示符/批量、默认标注与标题升级、跨轮旧图与转发说明。没有在真实课程实验、Word 模板或宿主会话中执行这些场景。
 
 脚本只保存 `tool`/`objects` 并核对结构，不能判断截图是否真的出现该工具或对象；这仍由执行者与独立审查按实际画面核对。
